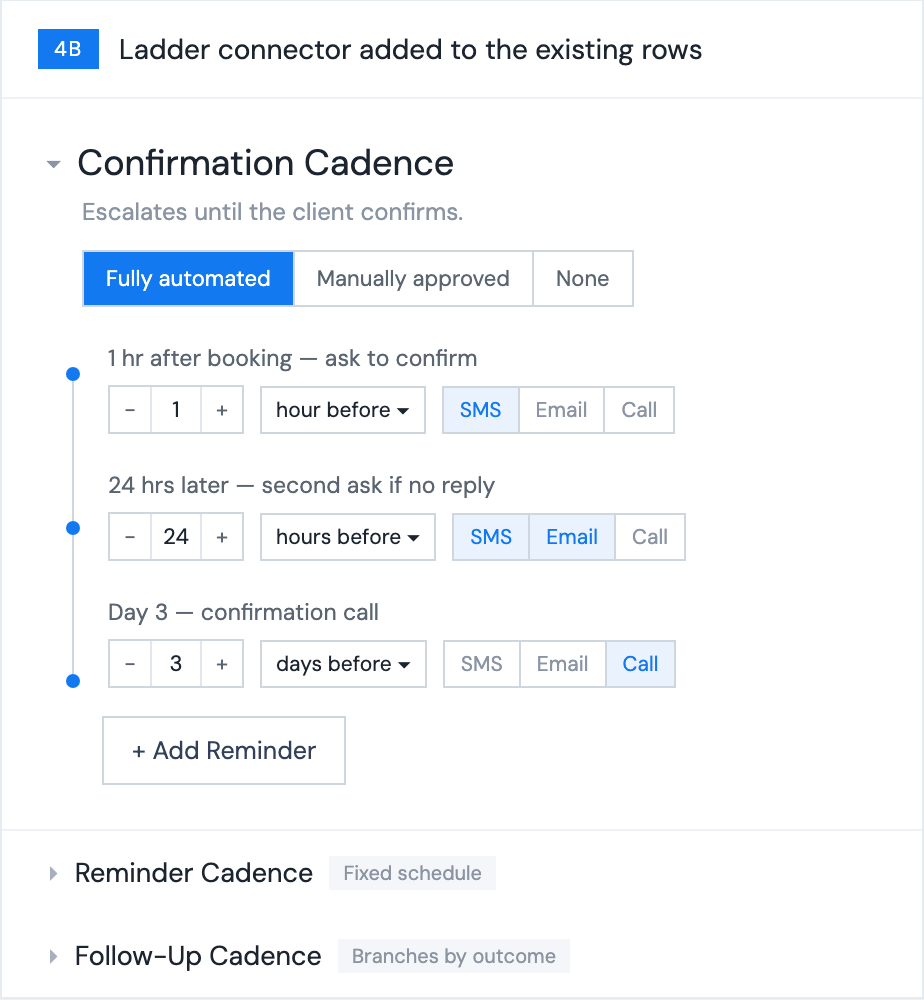
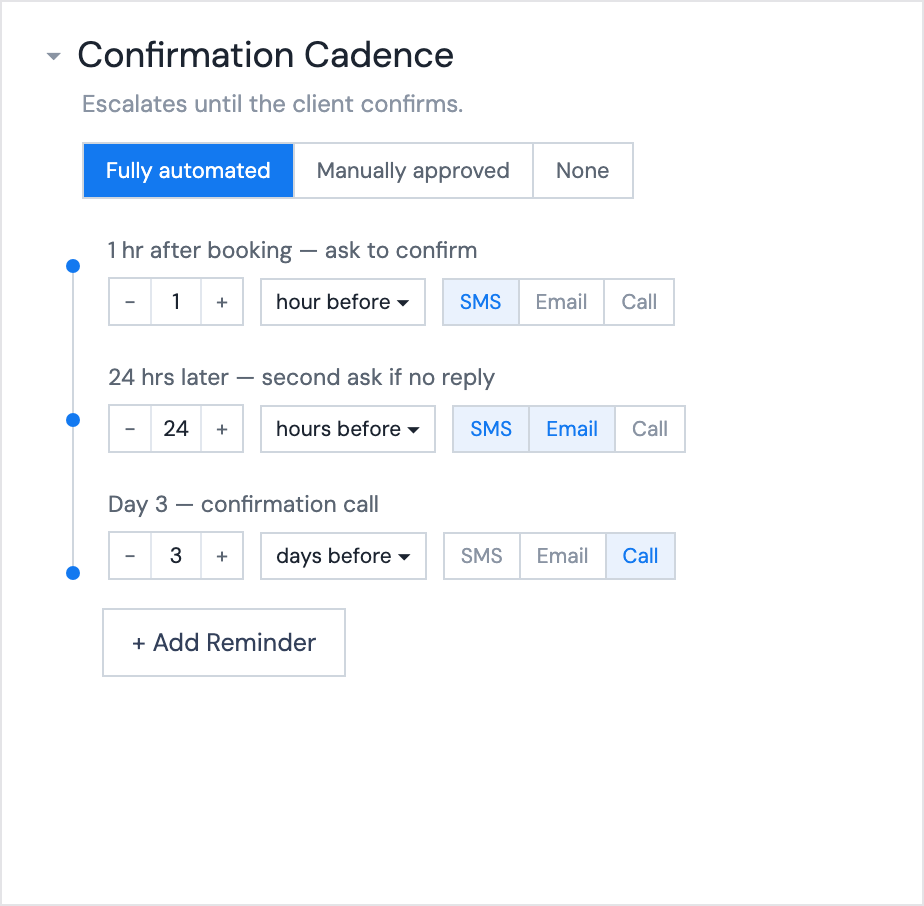
Problem Solving: existing-UI block, equal cadence cards, video controls
- The first block is 'Existing UI', not an iteration - it is what was
  inherited. The three that follow renumber to Iteration 01-03.
- Cadence stills recropped from source: 4A/4B/4C header row gone, the
  Reminder and Follow-Up rows below gone, all three padded to one identical
  924x906 card. Captions sit directly under, left aligned, on one line.
- Spacing opened up: iteration gap 104 -> 128, the row gap above an
  explorations strip 32 -> 64, cadence card gap 16 -> 28.
- Final row puts the walkthrough in the middle, stills either side.
- Video controls rewritten. The mute button is only built where
  data-audio is true, so silent clips no longer ship a dead 'No audio'
  button; tetris and stopmotion were declared both ways in different
  places and are now consistently silent.
- data-scrub clips (the walkthrough, Spotify, hand-tracking) get a seek
  slider, -5s/+5s, an elapsed/duration readout, and controls that fade in
  on hover. They no longer loop.
- Fixed: .iter-extra rendered above its iteration on flipped rows, because
  order:0 beat the reordered copy/media. Now order:3.
- Preview server swapped for a range-capable one; python http.server
  ignores Range headers, which makes seeking impossible locally.

diff --git a/index.html b/index.html
@@ -875,10 +875,10 @@ p.copy.ph { display: block; }
 @media (max-width: 860px) { .flaw-pair { grid-template-columns: 1fr; } }
 
 /* 05.1 — iteration rows: media and copy trading sides down the page */
-.iters { display: flex; flex-direction: column; gap: 104px; }
+.iters { display: flex; flex-direction: column; gap: 128px; }
 .iter {
   display: grid; grid-template-columns: 1fr 1fr;
-  gap: 32px 56px; align-items: center;
+  gap: 64px 56px; align-items: center;
 }
 .iter.flip .iter-media { order: 2; }
 .iter.flip .iter-copy { order: 1; }
@@ -892,21 +892,16 @@ p.copy.ph { display: block; }
   font-size: 12px; line-height: 16px; letter-spacing: 0.1em;
   text-transform: uppercase; font-weight: 400; color: var(--cs-blue);
 }
-/* the extra row under an iteration — explorations, alternates */
-.iter-extra { grid-column: 1 / -1; }
-.iter-extra > .t-12 { margin-bottom: 14px; }
-.iter-tri { display: grid; grid-template-columns: repeat(3, minmax(0, 1fr)); gap: 16px; }
+/* the extra row under an iteration — explorations, alternates.
+   order:3 keeps it last even on .flip, where copy/media are reordered */
+.iter-extra { grid-column: 1 / -1; order: 3; }
+.iter-extra > .t-12 { margin-bottom: 20px; }
+.iter-tri { display: grid; grid-template-columns: repeat(3, minmax(0, 1fr)); gap: 28px; }
 .iter-tri figure { margin: 0; display: flex; flex-direction: column; }
-.iter-tri figcaption { margin-top: auto; padding-top: 10px; font-size: 12px; line-height: 18px; color: var(--cs-mute); }
-/* the three cadence stills are different natural heights. The image is taken
-   out of flow so it can't push the box taller than its ratio — each then fits
-   to one common height, scaled, never cropped. */
-.iter-tri .shot { position: relative; aspect-ratio: 1 / 1; }
-.iter-tri .shot img {
-  position: absolute; inset: 0; margin: auto;
-  width: auto; height: auto; max-width: 100%; max-height: 100%;
-  display: block;
-}
+.iter-tri figcaption { margin-top: 14px; font-size: 12px; line-height: 18px; color: var(--cs-mute); }
+/* the three cadence stills are cropped to one identical size, so they just
+   sit at full width and line up on their own */
+.iter-tri .shot img { width: 100%; height: auto; display: block; }
 /* a still and a clip stacked in one media column */
 .iter-duo { display: grid; grid-template-columns: 1fr; gap: 16px; }
 
@@ -930,7 +925,7 @@ p.copy.ph { display: block; }
 .iter-final .nf-vid { background: none; }
 
 @media (max-width: 900px) {
-  .iters { gap: 64px; }
+  .iters { gap: 72px; }
   .iter { grid-template-columns: 1fr; gap: 24px; }
   .iter.flip .iter-media, .iter.flip .iter-copy { order: 0; }
   .iter-copy h3 { font-size: 22px; line-height: 30px; }
@@ -1173,6 +1168,41 @@ p.copy.ph { display: block; }
 }
 .vid-ctrls button svg { width: 10px; height: 10px; display: block; fill: currentColor; }
 .vid-ctrls button[disabled] { opacity: 0.45; cursor: default; }
+
+/* long-form clips: controls appear on hover, with a scrubber and 5s jumps */
+.vid.is-scrub .vid-ctrls {
+  left: 12px; right: 12px; bottom: 12px;
+  align-items: center; gap: 8px;
+  opacity: 0; pointer-events: none;
+}
+.vid.is-scrub:hover .vid-ctrls,
+.vid.is-scrub:focus-within .vid-ctrls { opacity: 1; pointer-events: auto; }
+@media (hover: none), (pointer: coarse) {
+  .vid.is-scrub .vid-ctrls { opacity: 0.92; pointer-events: auto; }
+}
+.vid-ctrls button.skip { padding: 0 10px; font-size: 11px; letter-spacing: 0.02em; }
+.vid-ctrls .vid-time {
+  flex: none; font-family: var(--font-mono); font-size: 11px; color: rgba(255,255,255,0.75);
+  font-variant-numeric: tabular-nums; white-space: nowrap;
+}
+.vid-seek {
+  flex: 1 1 auto; min-width: 48px; height: 28px; margin: 0;
+  -webkit-appearance: none; appearance: none; background: none; cursor: pointer;
+}
+.vid-seek::-webkit-slider-runnable-track {
+  height: 3px; border-radius: 3px; background: rgba(255,255,255,0.3);
+}
+.vid-seek::-moz-range-track { height: 3px; border-radius: 3px; background: rgba(255,255,255,0.3); }
+.vid-seek::-webkit-slider-thumb {
+  -webkit-appearance: none; appearance: none; margin-top: -4.5px;
+  width: 12px; height: 12px; border-radius: 50%; background: #fff;
+  box-shadow: 0 1px 4px rgba(0,0,0,0.5);
+}
+.vid-seek::-moz-range-thumb {
+  width: 12px; height: 12px; border: 0; border-radius: 50%; background: #fff;
+  box-shadow: 0 1px 4px rgba(0,0,0,0.5);
+}
+.vid-seek:focus-visible { outline: 2px solid var(--acid); outline-offset: 3px; }
 @media (hover: hover) and (pointer: fine) {
   .vid-ctrls button:not([disabled]):hover { background: var(--acid); color: var(--ink); border-color: var(--acid); }
 }
@@ -1681,7 +1711,7 @@ body.view-gideon .cs-toc { opacity: 1; pointer-events: auto; }
 
     <div class="quests-reel">
       <figure class="qv">
-        <div class="qv-media"><video data-audio="true" src="assets/sq/handtracking.mp4" poster="assets/sq/handtracking.jpg" autoplay muted loop playsinline preload="metadata" aria-label="Hand-tracking masks in TouchDesigner"></video></div>
+        <div class="qv-media"><video data-audio="true" src="assets/sq/handtracking.mp4" data-scrub poster="assets/sq/handtracking.jpg" autoplay muted loop playsinline preload="metadata" aria-label="Hand-tracking masks in TouchDesigner"></video></div>
         <figcaption><b>Hand-tracking masks</b><span>TouchDesigner</span></figcaption>
       </figure>
       <figure class="qv">
@@ -2289,7 +2319,7 @@ body.view-gideon .cs-toc { opacity: 1; pointer-events: auto; }
 
       <div class="iters">
 
-        <!-- ITERATION 01 — media left, copy right -->
+        <!-- EXISTING UI — media left, copy right -->
         <div class="iter">
           <div class="iter-media">
             <div class="flaw-img">
@@ -2300,7 +2330,7 @@ body.view-gideon .cs-toc { opacity: 1; pointer-events: auto; }
             </div>
           </div>
           <div class="iter-copy">
-            <span class="iter-step">Iteration 01</span>
+            <span class="iter-step">Existing UI</span>
             <h3>What was wrong with it</h3>
             <p class="t-16 ph">a line on how you read the existing layout before touching it</p>
             <ol class="flaws">
@@ -2317,7 +2347,7 @@ body.view-gideon .cs-toc { opacity: 1; pointer-events: auto; }
             <img class="cs-img" src="assets/gd/v1-one-modal.png" alt="Version one of the New Appointment modal — one modal carrying everything the edit screen could do, with the confirmation cadence preset open" loading="lazy">
           </div>
           <div class="iter-copy">
-            <span class="iter-step">Iteration 02</span>
+            <span class="iter-step">Iteration 01</span>
             <h3>Complementing Edit Appointment Modal and Adding Cadences</h3>
             <p class="t-20 ph">two changes in one pass: New Appointment was rebuilt to match Edit Appointment, so the two screens finally agreed on what an appointment is — and cadence arrived at creation, so booking a visit and chasing the client stopped being separate jobs</p>
           </div>
@@ -2347,7 +2377,7 @@ body.view-gideon .cs-toc { opacity: 1; pointer-events: auto; }
             <img class="cs-img" src="assets/gd/treatment-plan.png" alt="Add Treatment Plan Step — treatment types with a provider each, visits, frequency and duration, and the appointments generated from them" loading="lazy">
           </div>
           <div class="iter-copy">
-            <span class="iter-step">Iteration 03</span>
+            <span class="iter-step">Iteration 02</span>
             <h3>Adding Treatment Plan</h3>
             <p class="t-20 ph">a client in treatment attends a course of visits, not one — so the modal learned to describe the course and generate the appointments from it</p>
           </div>
@@ -2356,7 +2386,7 @@ body.view-gideon .cs-toc { opacity: 1; pointer-events: auto; }
         <!-- ITERATION 04 — the version that shipped, three up -->
         <div class="iter full">
           <div class="iter-copy">
-            <span class="iter-step">Iteration 04</span>
+            <span class="iter-step">Iteration 03</span>
             <h3>Final Version</h3>
             <p class="t-20 ph">what it collapsed down to — two modes in one form, scheduling ahead or recording a visit that already happened</p>
           </div>
@@ -2366,12 +2396,12 @@ body.view-gideon .cs-toc { opacity: 1; pointer-events: auto; }
               <div class="shot"><img src="assets/gd/final-schedule.jpg" alt="The final New Appointment modal, scheduling ahead" loading="lazy"></div>
             </figure>
             <figure>
-              <div class="shot"><img src="assets/gd/final-log-visit.jpg" alt="The final modal in Log a Visit mode, with an outcome and notes" loading="lazy"></div>
+              <div class="shot nf-vid">
+                <video src="assets/gd/final-walkthrough.mp4" data-scrub poster="assets/gd/final-walkthrough-poster.jpg" muted playsinline preload="none" data-noautoplay data-audio="false" aria-label="The shipped New Appointment modal, driven end to end"></video>
+              </div>
             </figure>
             <figure>
-              <div class="shot nf-vid">
-                <video src="assets/gd/final-walkthrough.mp4" poster="assets/gd/final-walkthrough-poster.jpg" muted playsinline preload="none" data-noautoplay data-audio="false" aria-label="The shipped New Appointment modal, driven end to end"></video>
-              </div>
+              <div class="shot"><img src="assets/gd/final-log-visit.jpg" alt="The final modal in Log a Visit mode, with an outcome and notes" loading="lazy"></div>
             </figure>
           </div>
         </div>
@@ -2673,7 +2703,7 @@ body.view-gideon .cs-toc { opacity: 1; pointer-events: auto; }
       <div class="sq-label"><b id="sq-motion">Motion</b><span>TouchDesigner, After Effects, paper</span></div>
 
       <div class="sq-feature">
-        <div class="sq-media"><video data-audio="true" src="assets/sq/handtracking.mp4" poster="assets/sq/handtracking.jpg" autoplay muted loop playsinline preload="metadata"></video></div>
+        <div class="sq-media"><video data-audio="true" src="assets/sq/handtracking.mp4" data-scrub poster="assets/sq/handtracking.jpg" autoplay muted loop playsinline preload="metadata"></video></div>
         <div class="sq-cap">
           <p>Live hand-tracking masks with pixelate and halftone effects. Made in TouchDesigner.</p>
           <time>June 2026</time>
@@ -2681,7 +2711,7 @@ body.view-gideon .cs-toc { opacity: 1; pointer-events: auto; }
       </div>
 
       <div class="sq-feature">
-        <div class="sq-media sq-4x3"><video data-audio="true" src="assets/sq/stopmotion.mp4" poster="assets/sq/stopmotion.jpg" autoplay muted loop playsinline preload="metadata"></video></div>
+        <div class="sq-media sq-4x3"><video data-audio="false" src="assets/sq/stopmotion.mp4" poster="assets/sq/stopmotion.jpg" autoplay muted loop playsinline preload="metadata"></video></div>
         <div class="sq-cap">
           <p>Stop-motion animation made by hand-drawing 37 frames on sticky notes.</p>
           <time>December 2026</time>
@@ -2701,7 +2731,7 @@ body.view-gideon .cs-toc { opacity: 1; pointer-events: auto; }
 
       <div class="sq-pair">
         <figure>
-          <div class="sq-media"><video data-audio="true" src="assets/sq/tetris.mp4" poster="assets/sq/tetris.jpg" autoplay muted loop playsinline preload="metadata"></video></div>
+          <div class="sq-media"><video data-audio="false" src="assets/sq/tetris.mp4" poster="assets/sq/tetris.jpg" autoplay muted loop playsinline preload="metadata"></video></div>
           <figcaption class="sq-cap"><p>Animated the gameplay of Tetris in the calendar app. Helped me understand motion and framing a letter better.</p></figcaption>
         </figure>
         <figure>
@@ -2729,7 +2759,7 @@ body.view-gideon .cs-toc { opacity: 1; pointer-events: auto; }
   <section class="sq-section" aria-labelledby="sq-spot">
     <div class="in">
       <div class="sq-label"><b id="sq-spot">Spotify, on a CRT</b><span class="ph">one line on what this is</span></div>
-      <div class="sq-media" style="aspect-ratio: 4 / 3"><video data-audio="true" src="assets/sq/spotify.mp4" poster="assets/sq/spotify.jpg" autoplay muted loop playsinline preload="metadata"></video></div>
+      <div class="sq-media" style="aspect-ratio: 4 / 3"><video data-audio="true" src="assets/sq/spotify.mp4" data-scrub poster="assets/sq/spotify.jpg" autoplay muted loop playsinline preload="metadata"></video></div>
     </div>
   </section>
 
@@ -2994,37 +3024,87 @@ body.view-gideon .cs-toc { opacity: 1; pointer-events: auto; }
   showView();
 
 
-  // ---- Video controls: play/pause + mute on every video ------------
+  // ---- Video controls ----------------------------------------------
   const ICON = {
     play:  '<svg viewBox="0 0 10 10" aria-hidden="true"><path d="M1.5 1l7 4-7 4z"/></svg>',
     pause: '<svg viewBox="0 0 10 10" aria-hidden="true"><path d="M1.5 1h2.5v8H1.5zM6 1h2.5v8H6z"/></svg>',
     sound: '<svg viewBox="0 0 10 10" aria-hidden="true"><path d="M1 3.5h2l2.5-2v7L3 6.5H1z"/><path d="M7 3.2a2.4 2.4 0 010 3.6" fill="none" stroke="currentColor" stroke-width="1.1"/></svg>',
     muted: '<svg viewBox="0 0 10 10" aria-hidden="true"><path d="M1 3.5h2l2.5-2v7L3 6.5H1z"/><path d="M6.6 3.6l2.6 2.8M9.2 3.6L6.6 6.4" fill="none" stroke="currentColor" stroke-width="1.1"/></svg>'
   };
+  const mmss = t => {
+    if (!isFinite(t)) return '0:00';
+    const m = Math.floor(t / 60), sec = Math.floor(t % 60);
+    return m + ':' + String(sec).padStart(2, '0');
+  };
+
   document.querySelectorAll('video:not([data-nocontrols])').forEach(v => {
     const box = v.parentElement; box.classList.add('vid');
+    const scrub = v.hasAttribute('data-scrub');
+    // the file is the authority on audio — no point offering a control that does nothing
+    const hasAudio = v.dataset.audio === 'true';
+    if (scrub) box.classList.add('is-scrub');
+
     const bar = document.createElement('div'); bar.className = 'vid-ctrls';
     const play = document.createElement('button'); play.type = 'button';
-    const mute = document.createElement('button'); mute.type = 'button';
-    bar.append(play, mute); box.append(bar);
+    bar.append(play);
 
-    const hasAudio = () =>
-      v.mozHasAudio || (v.webkitAudioDecodedByteCount > 0) || (v.audioTracks && v.audioTracks.length > 0) || v.dataset.audio === 'true';
+    let seek, back, fwd, time;
+    if (scrub) {
+      back = document.createElement('button'); back.type = 'button';
+      back.className = 'skip'; back.textContent = '\u22125s';
+      back.setAttribute('aria-label', 'Back five seconds');
+      fwd = document.createElement('button'); fwd.type = 'button';
+      fwd.className = 'skip'; fwd.textContent = '+5s';
+      fwd.setAttribute('aria-label', 'Forward five seconds');
+      seek = document.createElement('input');
+      seek.type = 'range'; seek.className = 'vid-seek';
+      seek.min = 0; seek.max = 1000; seek.value = 0; seek.step = 1;
+      seek.setAttribute('aria-label', 'Seek');
+      time = document.createElement('span'); time.className = 'vid-time'; time.textContent = '0:00';
+      bar.append(back, seek, fwd, time);
+    }
+
+    let mute;
+    if (hasAudio) {
+      mute = document.createElement('button'); mute.type = 'button';
+      bar.append(mute);
+    }
+    box.append(bar);
+
+    let dragging = false;
     const render = () => {
       const playing = !v.paused && !v.ended;
       play.innerHTML = (playing ? ICON.pause : ICON.play) + (playing ? 'Pause' : 'Play');
       play.setAttribute('aria-label', playing ? 'Pause video' : 'Play video');
-      const audio = hasAudio();
-      mute.disabled = !audio;
-      mute.innerHTML = (v.muted ? ICON.muted : ICON.sound) + (audio ? (v.muted ? 'Unmute' : 'Mute') : 'No audio');
-      mute.setAttribute('aria-label', audio ? (v.muted ? 'Unmute video' : 'Mute video') : 'This video has no audio');
+      if (mute) {
+        mute.innerHTML = (v.muted ? ICON.muted : ICON.sound) + (v.muted ? 'Unmute' : 'Mute');
+        mute.setAttribute('aria-label', v.muted ? 'Unmute video' : 'Mute video');
+      }
+      if (seek && !dragging && v.duration) {
+        seek.value = Math.round((v.currentTime / v.duration) * 1000);
+        time.textContent = mmss(v.currentTime) + ' / ' + mmss(v.duration);
+      }
     };
+
     play.addEventListener('click', () => { v.paused ? v.play().catch(() => {}) : v.pause(); });
-    mute.addEventListener('click', () => { v.muted = !v.muted; if (!v.muted) v.volume = 1; render(); });
+    if (mute) mute.addEventListener('click', () => { v.muted = !v.muted; if (!v.muted) v.volume = 1; render(); });
+    if (scrub) {
+      const nudge = d => { if (v.duration) v.currentTime = Math.min(v.duration, Math.max(0, v.currentTime + d)); };
+      back.addEventListener('click', () => nudge(-5));
+      fwd.addEventListener('click', () => nudge(5));
+      const scrubTo = () => { if (v.duration) v.currentTime = (seek.value / 1000) * v.duration; };
+      seek.addEventListener('pointerdown', () => { dragging = true; });
+      seek.addEventListener('input', () => { dragging = true; scrubTo(); });
+      seek.addEventListener('change', () => { scrubTo(); dragging = false; });
+      ['pointerup', 'pointercancel', 'blur'].forEach(ev => seek.addEventListener(ev, () => { dragging = false; }));
+      v.addEventListener('timeupdate', render);
+      v.addEventListener('durationchange', render);
+      // a scrubbed clip is one you watch on purpose — don't loop it out from under the viewer
+      v.removeAttribute('loop');
+    }
     ['play', 'pause', 'ended', 'volumechange', 'loadedmetadata', 'loadeddata'].forEach(ev => v.addEventListener(ev, render));
     render();
   });
-
 
 
   // ---- Case-study: before/after toggle -----------------------------
